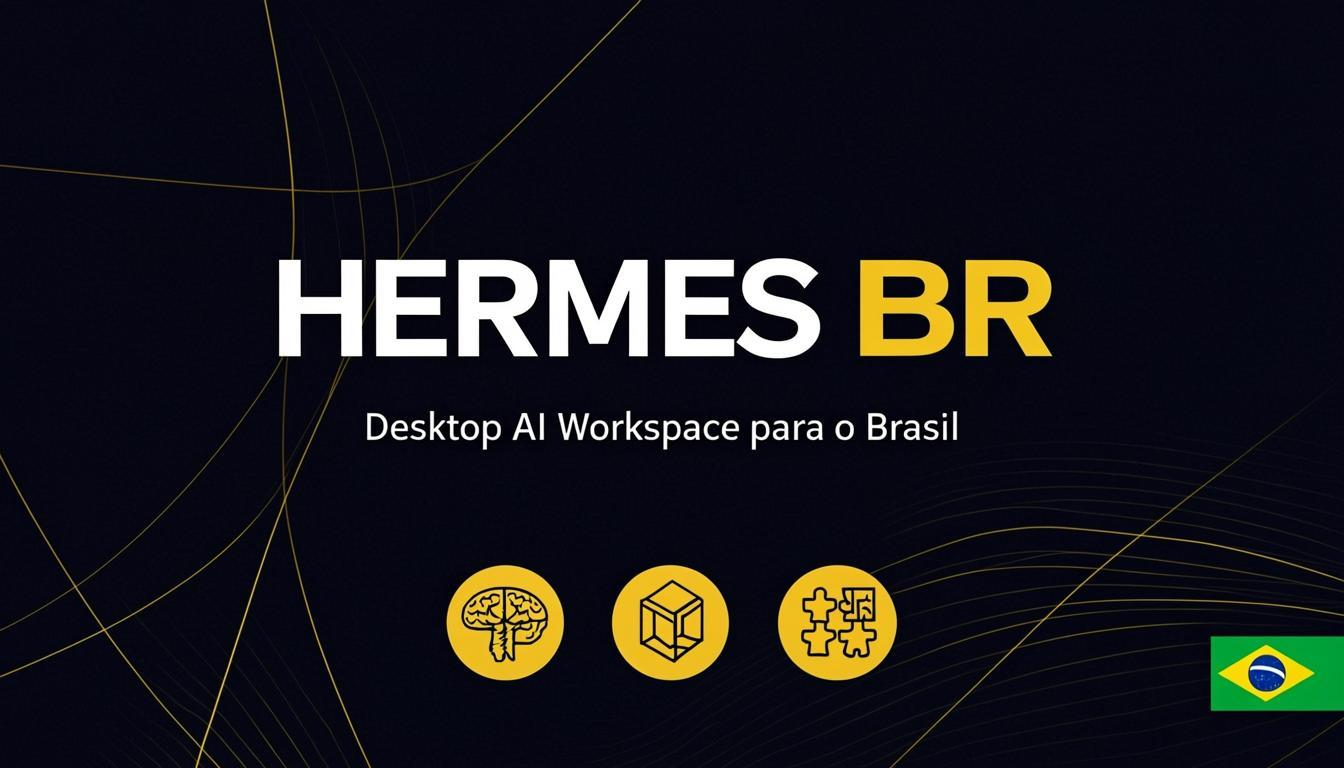
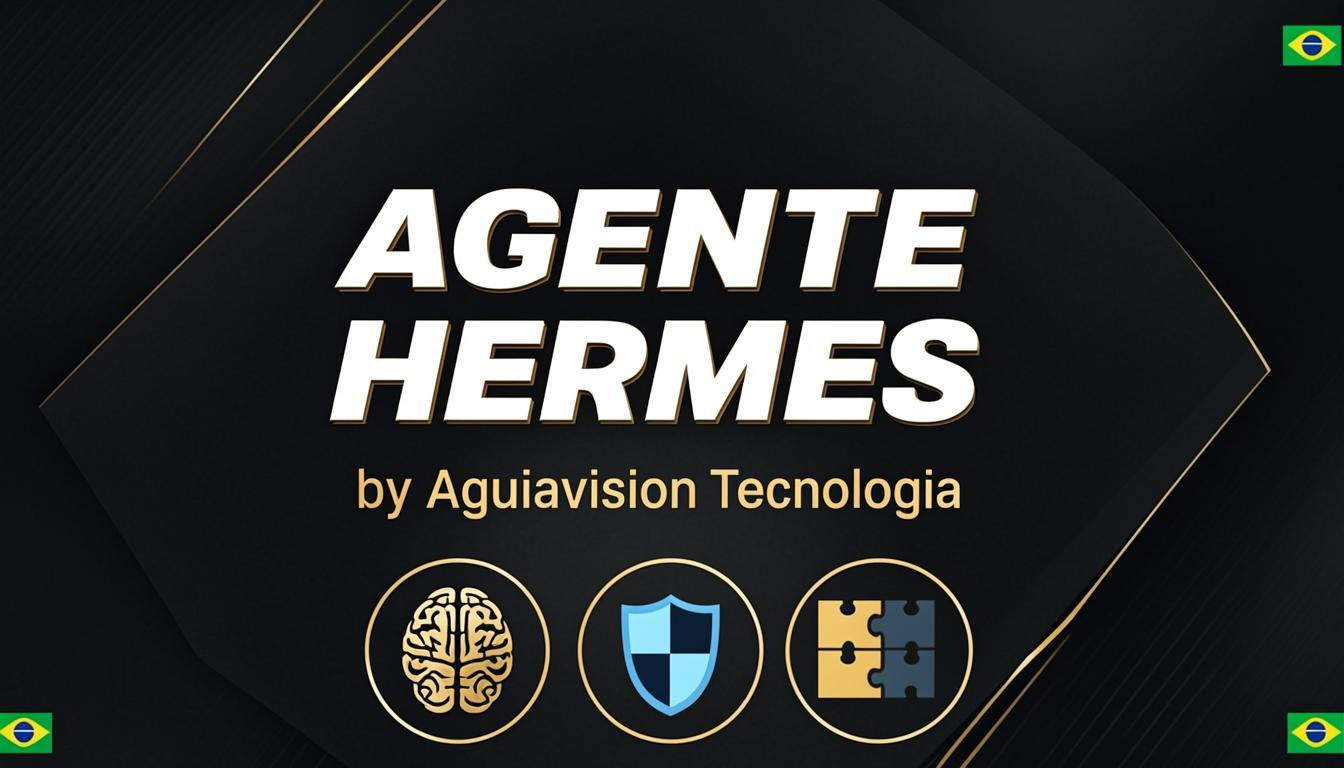
🏢 feat: identidade visual Aguiavision Tecnologia — sem menção a fork
- Removida toda referência a 'fork' do README e documentação
- Identidade visual atualizada para Aguiavision Tecnologia
- Banner e ícone recriados com branding Aguiavision
- electron-builder.yml: appId, productName, vendor, description atualizados
- package.json: author e homepage atualizados
- Main process: notificações, menus e app.name em pt-BR
- i18n pt-BR: appName, settings section, install strings atualizados
- index.html: título atualizado para 'Agente Hermes — Aguiavision'
- SplashScreen e Chat: strings de identidade atualizadas

diff --git a/src/main/index.ts b/src/main/index.ts
@@ -277,7 +277,7 @@ function setupIPC(): void {
         event.sender.send("install-progress", {
           step: 1,
           totalSteps: 1,
-          title: "Updating remote Hermes Agent",
+          title: "Atualizando Agente Hermes remoto",
           detail: "Running hermes update over SSH...",
           log: "Running hermes update over SSH...\n",
         });
@@ -550,8 +550,8 @@ function setupIPC(): void {
                 .trim()
                 .slice(0, 80);
               new Notification({
-                title: "Hermes Agent",
-                body: preview || "Response ready",
+                title: "Agente Hermes",
+                body: preview || "Resposta pronta",
               }).show();
             }
           },
@@ -562,7 +562,7 @@ function setupIPC(): void {
             // Notify on error too if window not focused
             if (mainWindow && !mainWindow.isFocused()) {
               new Notification({
-                title: "Hermes Agent — Error",
+                title: "Agente Hermes — Erro",
                 body: error.slice(0, 100),
               }).show();
             }
@@ -1027,16 +1027,16 @@ function buildMenu(): void {
       label: "Help",
       submenu: [
         {
-          label: "Hermes Agent on GitHub",
+          label: "Agente Hermes no GitHub",
           click: (): void => {
-            shell.openExternal("https://github.com/NousResearch/hermes-agent/");
+            shell.openExternal("https://github.com/aguiavisiontec/agente-hermes");
           },
         },
         {
-          label: "Report an Issue",
+          label: "Reportar um Problema",
           click: (): void => {
             shell.openExternal(
-              "https://github.com/fathah/hermes-desktop/issues",
+              "https://github.com/aguiavisiontec/agente-hermes/issues",
             );
           },
         },
@@ -1114,8 +1114,8 @@ function setupUpdater(): void {
 }
 
 app.whenReady().then(() => {
-  app.name = "Hermes";
-  electronApp.setAppUserModelId("com.nousresearch.hermes");
+  app.name = "Agente Hermes";
+  electronApp.setAppUserModelId("com.aguiavision.hermes");
 
   app.on("browser-window-created", (_, window) => {
     optimizer.watchWindowShortcuts(window);

diff --git a/src/main/installer.ts b/src/main/installer.ts
@@ -374,7 +374,7 @@ export async function runHermesUpdate(
     onProgress({
       step: 1,
       totalSteps: 1,
-      title: "Updating Hermes Agent",
+      title: "Atualizando Agente Hermes",
       detail: text.trim().slice(0, 120),
       log,
     });
@@ -454,7 +454,7 @@ const STAGE_MARKERS: { pattern: RegExp; step: number; title: string }[] = [
     pattern:
       /Cloning|cloning|Updating.*repository|Repository|Installing to .*hermes-agent|Downloading PortableGit/i,
     step: 4,
-    title: "Downloading Hermes Agent",
+    title: "Baixando Agente Hermes",
   },
   {
     pattern: /Creating virtual|virtual environment|uv venv|\bvenv\b/i,

diff --git a/src/renderer/index.html b/src/renderer/index.html
@@ -2,7 +2,7 @@
 <html>
   <head>
     <meta charset="UTF-8" />
-    <title>Hermes Agent</title>
+    <title>Agente Hermes — Aguiavision</title>
     <meta
       http-equiv="Content-Security-Policy"
       content="default-src 'self'; script-src 'self'; style-src 'self' 'unsafe-inline'; img-src 'self' data:"

diff --git a/src/renderer/src/screens/Chat/Chat.tsx b/src/renderer/src/screens/Chat/Chat.tsx
@@ -715,7 +715,7 @@ function Chat({
           window.hermesAPI.getAppVersion(),
         ]);
         pushLocalResponse(
-          `**Hermes Agent:** ${hermesVer || "unknown"}\n**Desktop App:** v${appVer}`,
+          `**Agente Hermes:** ${hermesVer || "desconhecido"}\n**App Desktop:** v${appVer}`,
         );
         return true;
       }

diff --git a/src/renderer/src/screens/SplashScreen/SplashScreen.tsx b/src/renderer/src/screens/SplashScreen/SplashScreen.tsx
@@ -14,7 +14,7 @@ function SplashScreen({ onFinished }: SplashScreenProps): React.JSX.Element {
   return (
     <div className="splash-screen">
       <img className="splash-bg" src={splashBg} alt="" />
-      <img className="splash-logo" src={splashLogo} alt="Hermes Agent" />
+      <img className="splash-logo" src={splashLogo} alt="Agente Hermes" />
     </div>
   );
 }

diff --git a/src/shared/i18n/locales/en/settings.ts b/src/shared/i18n/locales/en/settings.ts
@@ -1,7 +1,7 @@
 export default {
   title: "Settings",
   sections: {
-    hermesAgent: "Hermes Agent",
+    hermesAgent: "Aguiavision Tecnologia",
     appearance: "Appearance",
     credentialPool: "Credential Pool",
   },

diff --git a/src/shared/i18n/locales/pt-BR/common.ts b/src/shared/i18n/locales/pt-BR/common.ts
@@ -1,5 +1,5 @@
 export default {
-  appName: "Agente Hermes",
+  appName: "Agente Hermes — Aguiavision",
   continue: "Continuar",
   cancel: "Cancelar",
   retry: "Tentar novamente",

diff --git a/src/shared/i18n/locales/pt-BR/install.ts b/src/shared/i18n/locales/pt-BR/install.ts
@@ -3,7 +3,7 @@ export default {
   startingInstall: "Iniciando instalação",
   installationComplete: "Instalação Concluída",
   installationFailed: "Falha na Instalação",
-  installingHermes: "Instalando Hermes Agent",
+  installingHermes: "Instalando Agente Hermes",
   installationFailedHint:
     "A instalação falhou. Por favor, tente novamente ou instale via terminal.",
   retryInstallation: "Tentar Instalação Novamente",

diff --git a/src/shared/i18n/locales/pt-BR/settings.ts b/src/shared/i18n/locales/pt-BR/settings.ts
@@ -1,7 +1,7 @@
 export default {
   title: "Configurações",
   sections: {
-    hermesAgent: "Hermes Agent",
+    hermesAgent: "Aguiavision Tecnologia",
     appearance: "Aparência",
     credentialPool: "Pool de Credenciais",
   },

diff --git a/README.md b/README.md
@@ -1,18 +1,18 @@
 <div align="center">
 
-<img width="100%" alt="HERMES BR" src="docs/hermes-br-banner.png" />
+<img width="100%" alt="Agente Hermes — Aguiavision Tecnologia" src="docs/hermes-br-banner.png" />
 
 <br/>
 <br/>
 
 **Desktop AI Workspace para o Brasil**
 
-*Sua plataforma de agentes de IA completa, poderosa e 100% em português.*
+*Plataforma de agentes de IA pela Aguiavision Tecnologia — completa, poderosa e 100% em português.*
 
 <br/>
 
-<a href="https://github.com/fathah/hermes-desktop/releases/tag/v0.3.7"><img src="https://img.shields.io/badge/Base-v0.3.7-FFD700?style=for-the-badge" alt="Base Version"></a>
-<a href="https://github.com/fathah/hermes-desktop"><img src="https://img.shields.io/badge/Upstream-hermes--desktop-222222?style=for-the-badge&logo=github" alt="Upstream"></a>
+<a href="https://github.com/aguiavisiontec/agente-hermes/releases"><img src="https://img.shields.io/badge/Versão-v0.3.7-FFD700?style=for-the-badge" alt="Version"></a>
+<a href="https://github.com/aguiavisiontec/agente-hermes"><img src="https://img.shields.io/badge/Aguiavision-Tecnologia-222222?style=for-the-badge&logo=github" alt="Aguiavision"></a>
 <img src="https://img.shields.io/badge/Idioma-pt--BR-009739?style=for-the-badge&logo=flag&logoColor=white" alt="pt-BR">
 <img src="https://img.shields.io/badge/Licença-MIT-green?style=for-the-badge" alt="License: MIT">
 
@@ -27,25 +27,26 @@
 
 ## 🧠 Agentes Inteligentes · 🧊 Memória Persistente · 🧩 MCP Integrado
 
-Hermes BR é um fork brasileiro do [Hermes Desktop](https://github.com/fathah/hermes-desktop) — um aplicativo nativo para instalar, configurar e conversar com o [Hermes Agent](https://github.com/NousResearch/hermes-agent), um assistente de IA que se aprimora sozinho com uso de ferramentas, mensagens multi-plataforma e ciclo de aprendizado fechado.
+Agente Hermes é um aplicativo desktop nativo pela **Aguiavision Tecnologia** para instalar, configurar e conversar com o [Hermes Agent](https://github.com/NousResearch/hermes-agent) — um assistente de IA que se aprimora sozinho com uso de ferramentas, mensagens multi-plataforma e ciclo de aprendizado fechado.
 
 Em vez de gerenciar o CLI manualmente, o app guia você pela instalação, configuração de provedor e uso diário em um só lugar. Ele usa o script oficial de instalação do Hermes, armazena os dados em `~/.hermes`, e oferece uma GUI para conversa, sessões, perfis, memória, habilidades, ferramentas, agendamentos, gateways de mensagens e muito mais — **tudo em português brasileiro**.
 
-### 🇧🇷 O que muda neste fork?
+### 🇧🇷 Por que o Agente Hermes?
 
-| Recurso | Upstream (Original) | Hermes BR |
-|---------|---------------------|-----------|
-| Idioma padrão | Inglês | **Português Brasileiro** |
-| Interface | Parcialmente traduzida | **100% traduzida e revisada** |
+| Recurso | Outros apps | Agente Hermes |
+|---------|-------------|---------------|
+| Idioma | Inglês | **Português Brasileiro** |
+| Interface | Tradução parcial | **100% traduzida e revisada** |
 | Navegação | "Chat", "Soul", "Auto" | "Conversa", "Persona", "Automático" |
 | Documentação | Inglês | **Português Brasileiro** |
-| Termos técnicos | Mantidos em inglês | **Adaptados para pt-BR** |
+| Suporte | Comunidade geral | **Comunidade brasileira** |
+| Identidade | Genérica | **Aguiavision Tecnologia** |
 
 ---
 
 ## 🚀 Instalar
 
-Baixe a versão mais recente na página de [Releases](https://github.com/fathah/hermes-desktop/releases/).
+Baixe a versão mais recente na página de [Releases](https://github.com/aguiavisiontec/agente-hermes/releases).
 
 | Plataforma | Arquivo |
 |---|---|
@@ -58,7 +59,7 @@ Baixe a versão mais recente na página de [Releases](https://github.com/fathah/
 ### Windows (winget)
 
 ```powershell
-winget install NousResearch.HermesDesktop
+winget install Aguiavision.AgenteHermes
 ```
 
 > **Usuários Windows:** O instalador não é assinado com código. O SmartScreen do Windows avisará na primeira execução — clique em "Mais informações" → "Executar mesmo assim".
@@ -66,17 +67,17 @@ winget install NousResearch.HermesDesktop
 ### Fedora (RPM)
 
 ```bash
-sudo dnf install ./hermes-desktop-<versão>.rpm
+sudo dnf install ./agente-hermes-<versão>.rpm
 ```
 
-> **Usuários Fedora:** O `.rpm` não é assinado com GPG. Se seu sistema exige verificação de assinatura, adicione `--nogpgcheck` ao comando de instalação. Atualização automática não é suportada para builds `.rpm` (limitação do `electron-updater`); reinstale o novo `.rpm` para atualizar.
+> **Usuários Fedora:** O `.rpm` não é assinado com GPG. Se seu sistema exige verificação de assinatura, adicione `--nogpgcheck` ao comando de instalação.
 
 ### macOS
 
 > **Usuários macOS:** O app não é assinado ou notarizado. O macOS bloqueará na primeira execução. Para corrigir, execute o seguinte após instalar:
 >
 > ```bash
-> xattr -cr "/Applications/Hermes Agent.app"
+> xattr -cr "/Applications/Agente Hermes.app"
 > ```
 >
 > Ou clique com o botão direito no app → **Abrir** → clique **Abrir** no diálogo de confirmação.
@@ -243,7 +244,7 @@ Os arquivos do Hermes são gerenciados em:
 
 ## 🤝 Contribuindo
 
-Contribuições são bem-vindas! Confira o [Guia de Contribuição](CONTRIBUTING.md) para começar. Se não tiver certeza por onde começar, dê uma olhada nas [issues abertas](https://github.com/fathah/hermes-desktop/issues). Encontrou um bug ou tem uma sugestão? [Abra uma issue](https://github.com/fathah/hermes-desktop/issues/new).
+Contribuições são bem-vindas! Confira o [Guia de Contribuição](CONTRIBUTING.md) para começar. Se não tiver certeza por onde começar, dê uma olhada nas [issues abertas](https://github.com/aguiavisiontec/agente-hermes/issues). Encontrou um bug ou tem uma sugestão? [Abra uma issue](https://github.com/aguiavisiontec/agente-hermes/issues/new).
 
 ---
 
@@ -257,8 +258,11 @@ Para o agente principal, documentação e fluxos de trabalho CLI, veja o reposit
 
 <div align="center">
 
-**Hermes BR. O poder da IA na sua mesa.**
+**Agente Hermes. O poder da IA na sua mesa.**
 
-🪟 Windows 10/11 · 🔓 Código Aberto · ❤️ Feito com paixão no Brasil
+<p>🪟 Windows 10/11 · 🐧 Linux · 🍎 macOS</p>
+<p>🔓 Código Aberto · 🇧🇷 Feito com paixão no Brasil</p>
+
+<p><strong>Aguiavision Tecnologia</strong></p>
 
 </div>